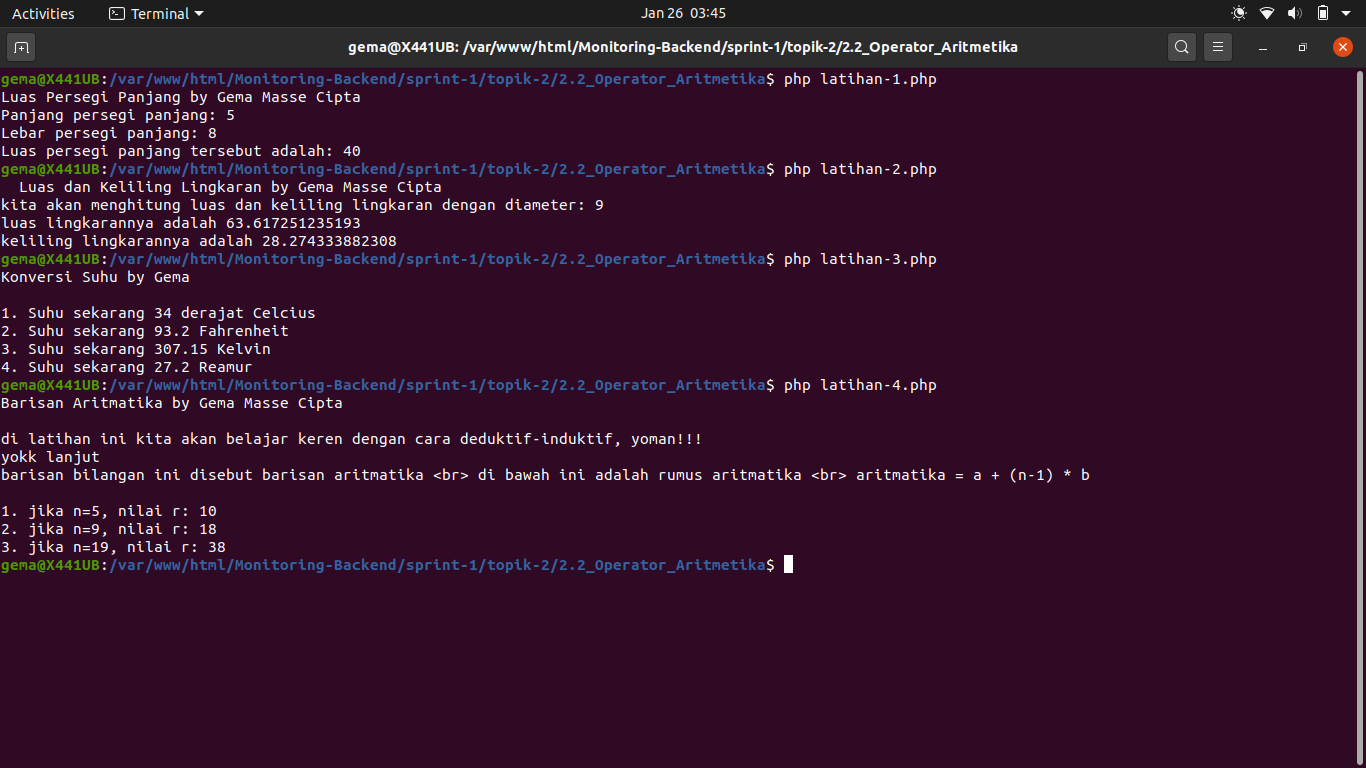
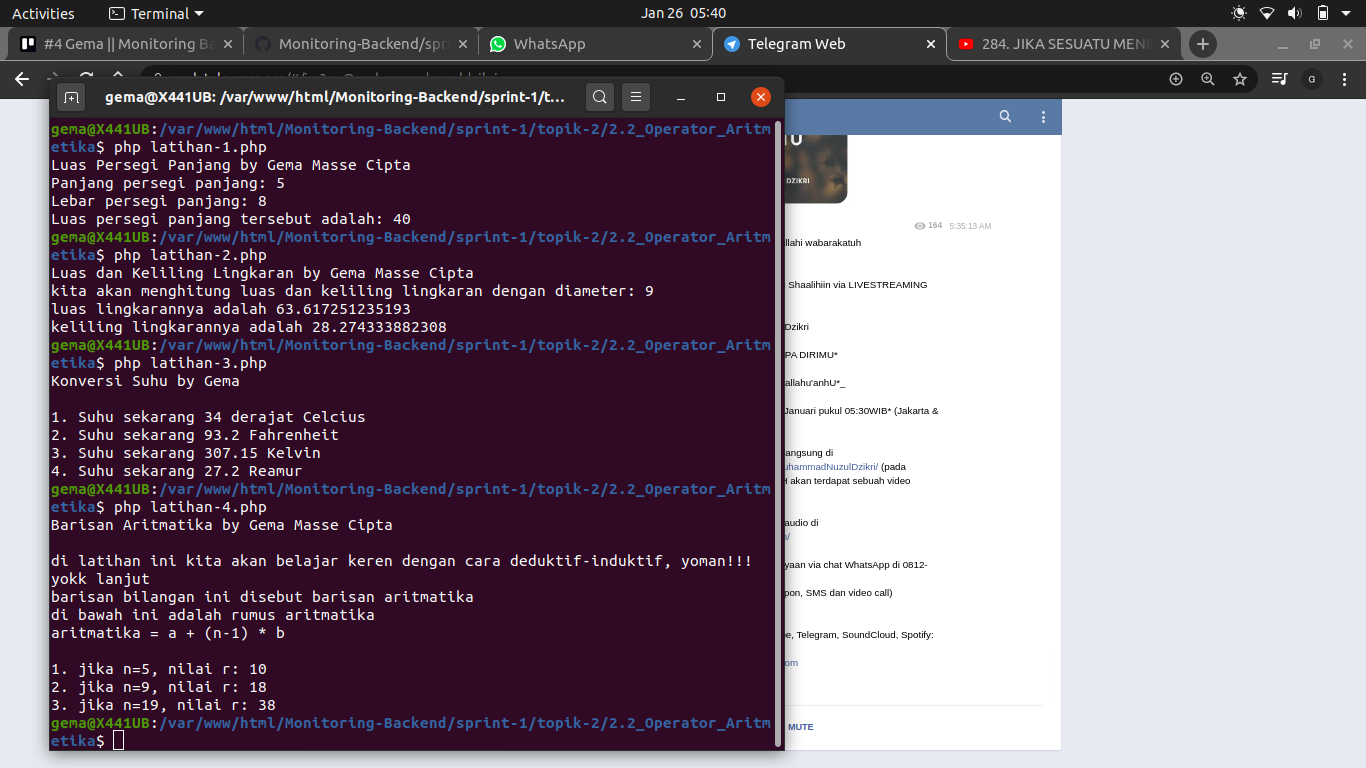
modifikasi file tugas 1.1, 1.2, 2.2

diff --git a/sprint-1/topik-2/2.2_Operator_Aritmetika/latihan-4.php b/sprint-1/topik-2/2.2_Operator_Aritmetika/latihan-4.php
@@ -14,7 +14,7 @@ $aritmatika = $a + ($n-1) * $b;
 $aritmatika1 = $a + ($n1-1) * $b;
 $aritmatika2 = $a + ($n2-1) * $b;
 
-echo "barisan bilangan ini disebut barisan aritmatika <br> di bawah ini adalah rumus aritmatika <br> aritmatika = a + (n-1) * b \n\n";
+echo "barisan bilangan ini disebut barisan aritmatika \ndi bawah ini adalah rumus aritmatika \naritmatika = a + (n-1) * b \n\n";
 echo "1. jika n=$n, nilai r: $aritmatika \n";
 echo "2. jika n=$n1, nilai r: $aritmatika1 \n";
 echo "3. jika n=$n2, nilai r: $aritmatika2\n";

diff --git a/sprint-1/topik-2/2.2_Operator_Aritmetika/latihan-2.php b/sprint-1/topik-2/2.2_Operator_Aritmetika/latihan-2.php
@@ -6,7 +6,7 @@ $r = $d / 2;
 $luasLingkaran =  pi() * $r * $r ;
 $kelilingLingkaran = 2 * pi() * $r;
 
-echo "  Luas dan Keliling Lingkaran by Gema Masse Cipta\n";
+echo "Luas dan Keliling Lingkaran by Gema Masse Cipta\n";
 
 echo "kita akan menghitung luas dan keliling lingkaran dengan diameter: $d \n";
 echo "luas lingkarannya adalah " . $luasLingkaran . "\n";
